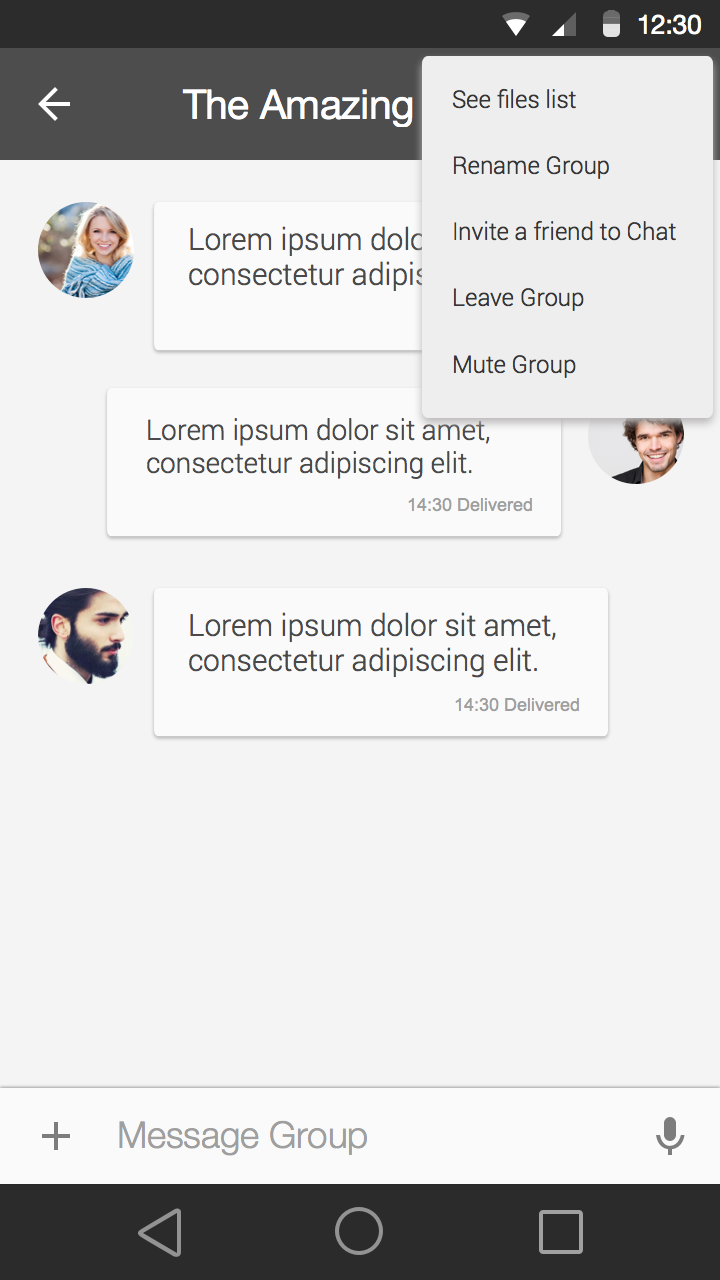
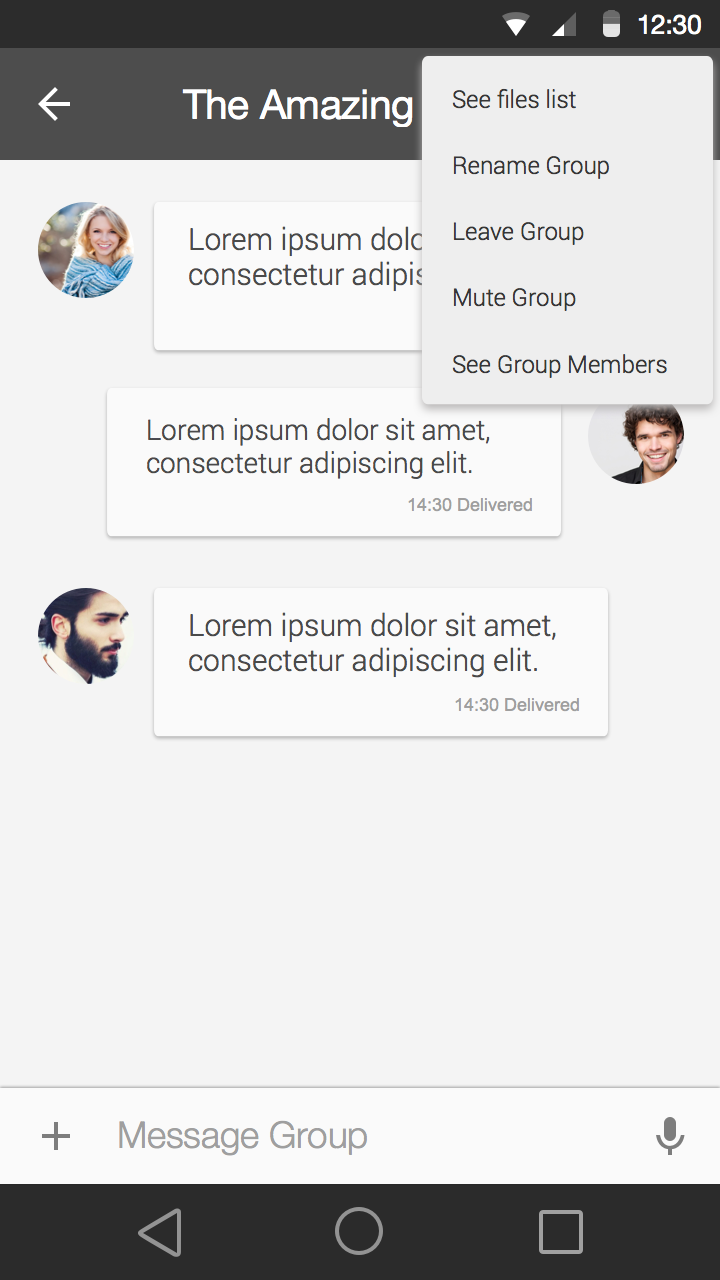
Added the Invite a friend to the group chat

Changed region(s): [[0.5806, 0.2812, 1.0, 0.3438], [0.6111, 0.1562, 0.9472, 0.1875], [0.6417, 0.2188, 0.825, 0.25]]

diff --git a/doc/storyboard/GroupMessageAddFriend.html b/doc/storyboard/GroupMessageAddFriend.html
@@ -10,11 +10,10 @@
 			<center>
 				<div>
 					<div id="center">
-						<img id="centerIMG"src="img/Group_messaging_SettingsOther.png">
+						<img id="centerIMG"src="img/Group_messagingContactsAdd.png">
 						<a href="index.html"><div class="highlight" style="position:absolute;top: 669px;left: 74px;width: 30px;height: 30px;"></div></a>
 						<a href="index.html"><div class="highlight" style="position:absolute;top: 40px;left: 17px;width: 30px;height: 30px;"></div></a>
-						<a href="GroupMessagePromptLeave.html"><div class="highlight" style="position:absolute;top: 110px;left: 247px;width: 100px;height: 30px;"></div></a>
-						<a href="GroupMessageContacts.html"><div class="highlight" style="position:absolute;top: 185px;left: 247px;width: 125px;height: 30px;"></div></a>
+						<a href="#" onClick="history.go(-4);"><div class="highlight" style="position:absolute;top: 573px;left: 317px;width: 66px;height: 68px;"></div></a>
 					</div>
 					<div id="text"><h1>Tox Android Application Mockup</h1></div>
 					<a href="MessageWritting.html" style="color:blue;">Friend Writting!</a>

diff --git a/doc/storyboard/GroupMessageContacts.html b/doc/storyboard/GroupMessageContacts.html
@@ -10,11 +10,10 @@
 			<center>
 				<div>
 					<div id="center">
-						<img id="centerIMG"src="img/Group_messaging_SettingsOther.png">
+						<img id="centerIMG"src="img/Group_messagingContactsList.png">
 						<a href="index.html"><div class="highlight" style="position:absolute;top: 669px;left: 74px;width: 30px;height: 30px;"></div></a>
 						<a href="index.html"><div class="highlight" style="position:absolute;top: 40px;left: 17px;width: 30px;height: 30px;"></div></a>
-						<a href="GroupMessagePromptLeave.html"><div class="highlight" style="position:absolute;top: 110px;left: 247px;width: 100px;height: 30px;"></div></a>
-						<a href="GroupMessageContacts.html"><div class="highlight" style="position:absolute;top: 185px;left: 247px;width: 125px;height: 30px;"></div></a>
+						<a href="GroupMessageAddFriend.html"><div class="highlight" style="position:absolute;top: 573px;left: 317px;width: 66px;height: 68px;"></div></a>
 					</div>
 					<div id="text"><h1>Tox Android Application Mockup</h1></div>
 					<a href="MessageWritting.html" style="color:blue;">Friend Writting!</a>

diff --git a/doc/storyboard/GroupMessageSettings.html b/doc/storyboard/GroupMessageSettings.html
@@ -14,6 +14,7 @@
 						<a href="index.html"><div class="highlight" style="position:absolute;top: 669px;left: 74px;width: 30px;height: 30px;"></div></a>
 						<a href="index.html"><div class="highlight" style="position:absolute;top: 40px;left: 17px;width: 30px;height: 30px;"></div></a>
 						<a href="GroupMessageSettingsPrompt.html"><div class="highlight" style="position:absolute;top: 75px;left: 247px;width: 100px;height: 30px;"></div></a>
+						<a href="GroupMessageContacts.html"><div class="highlight" style="position:absolute;top: 185px;left: 247px;width: 125px;height: 30px;"></div></a>
 					</div>
 					<div id="text"><h1>Tox Android Application Mockup</h1></div>
 					<a href="MessageWritting.html" style="color:blue;">Friend Writting!</a>
